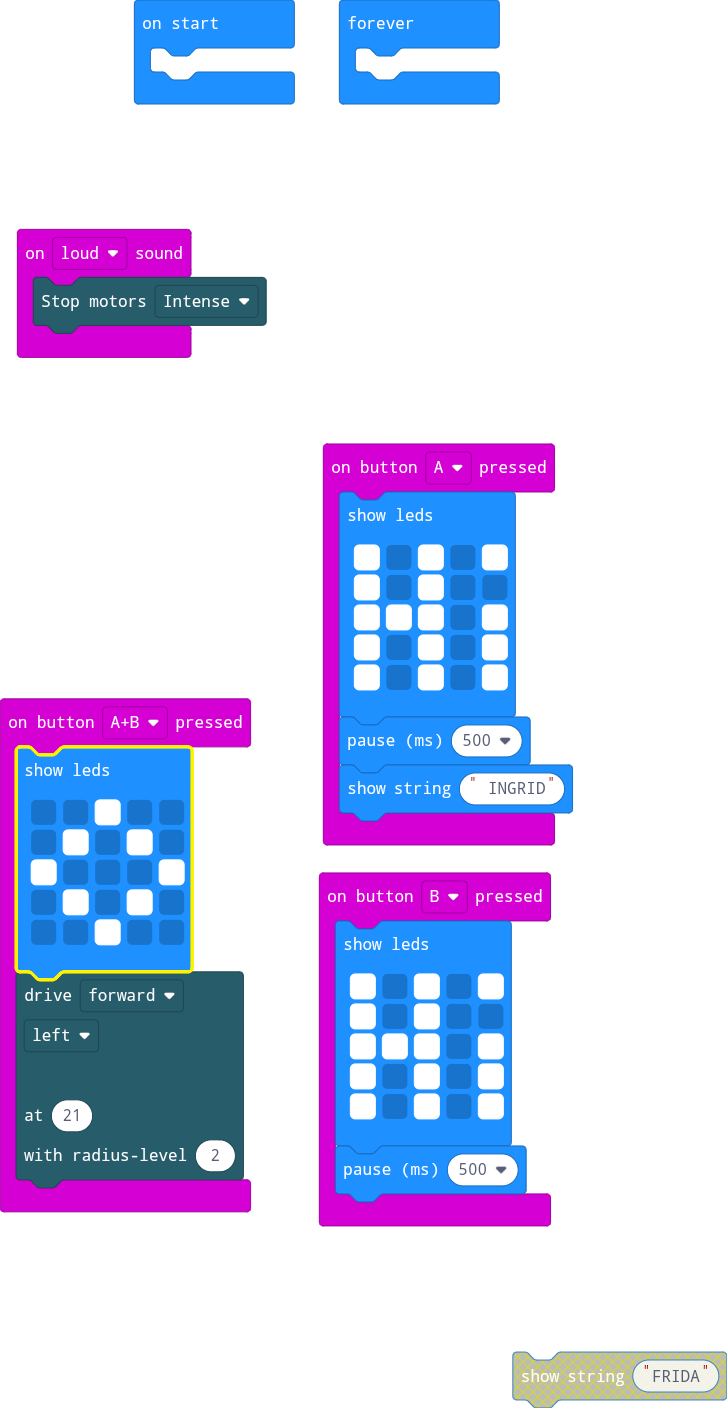
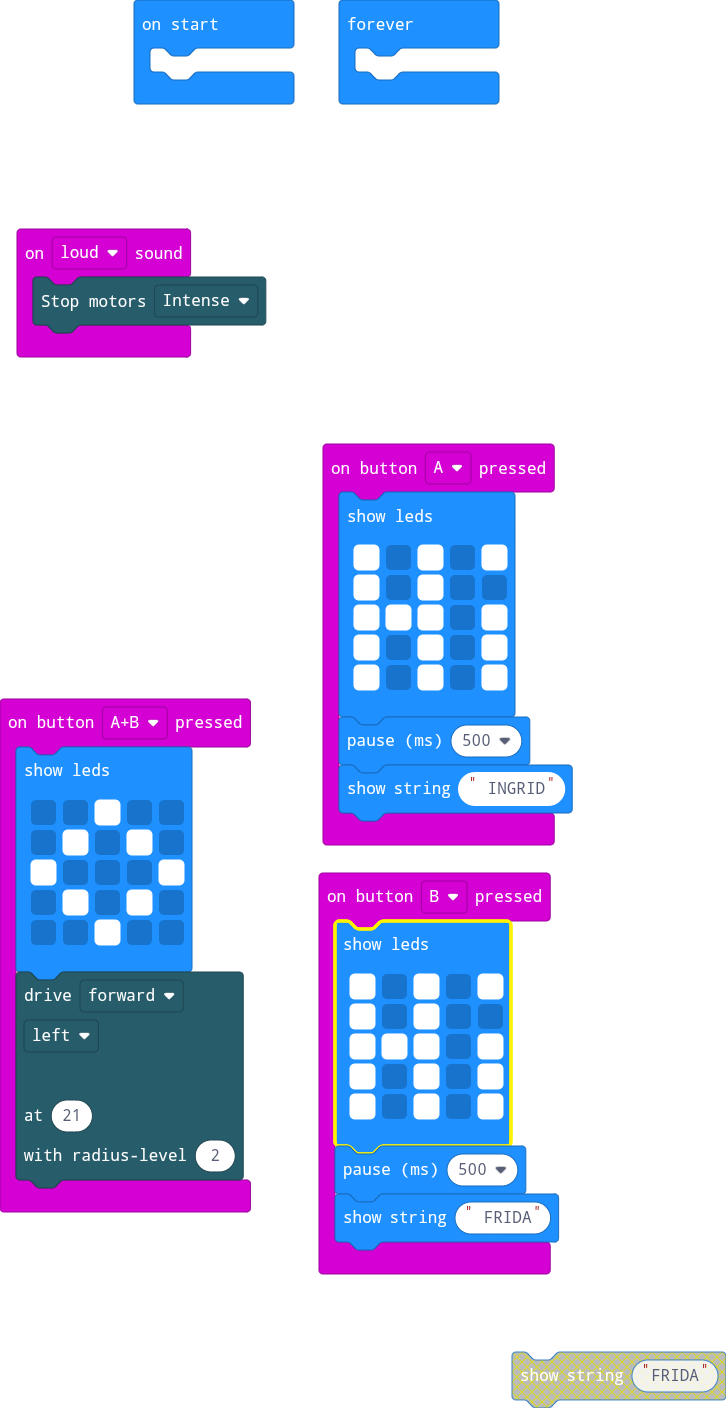
Update main.blocks, main.ts

diff --git a/main.ts b/main.ts
@@ -36,6 +36,7 @@ input.onButtonPressed(Button.B, function () {
         # . # . #
         `)
     basic.pause(500)
+    basic.showString(" FRIDA")
 })
 basic.forever(function () {
 	
